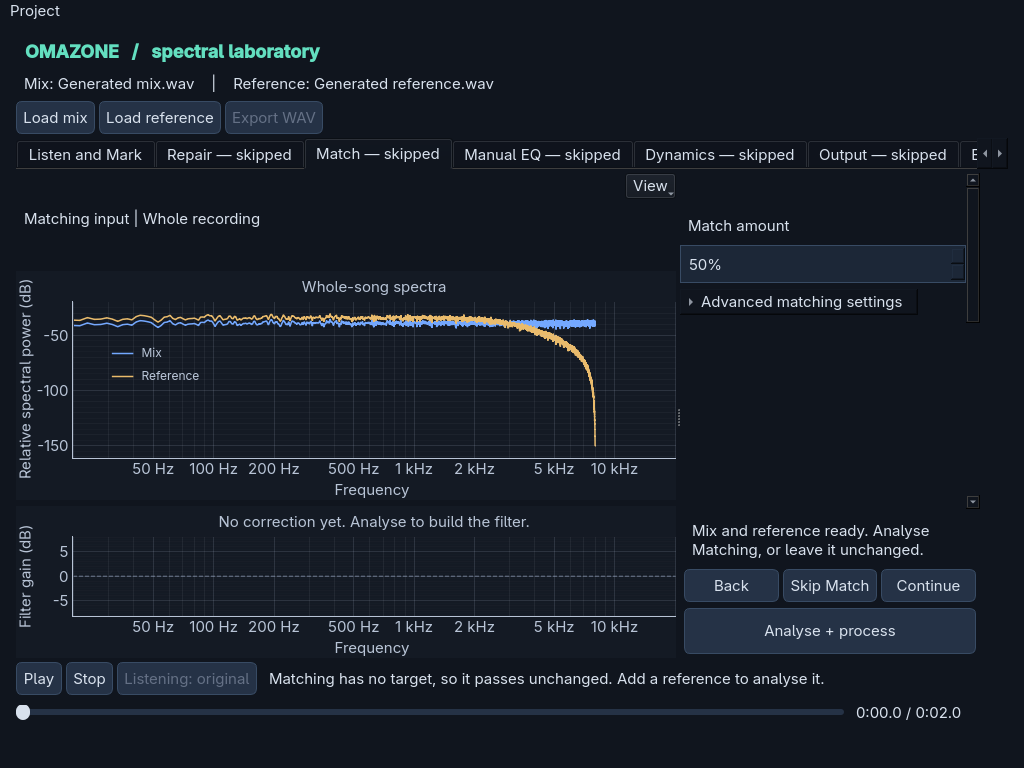
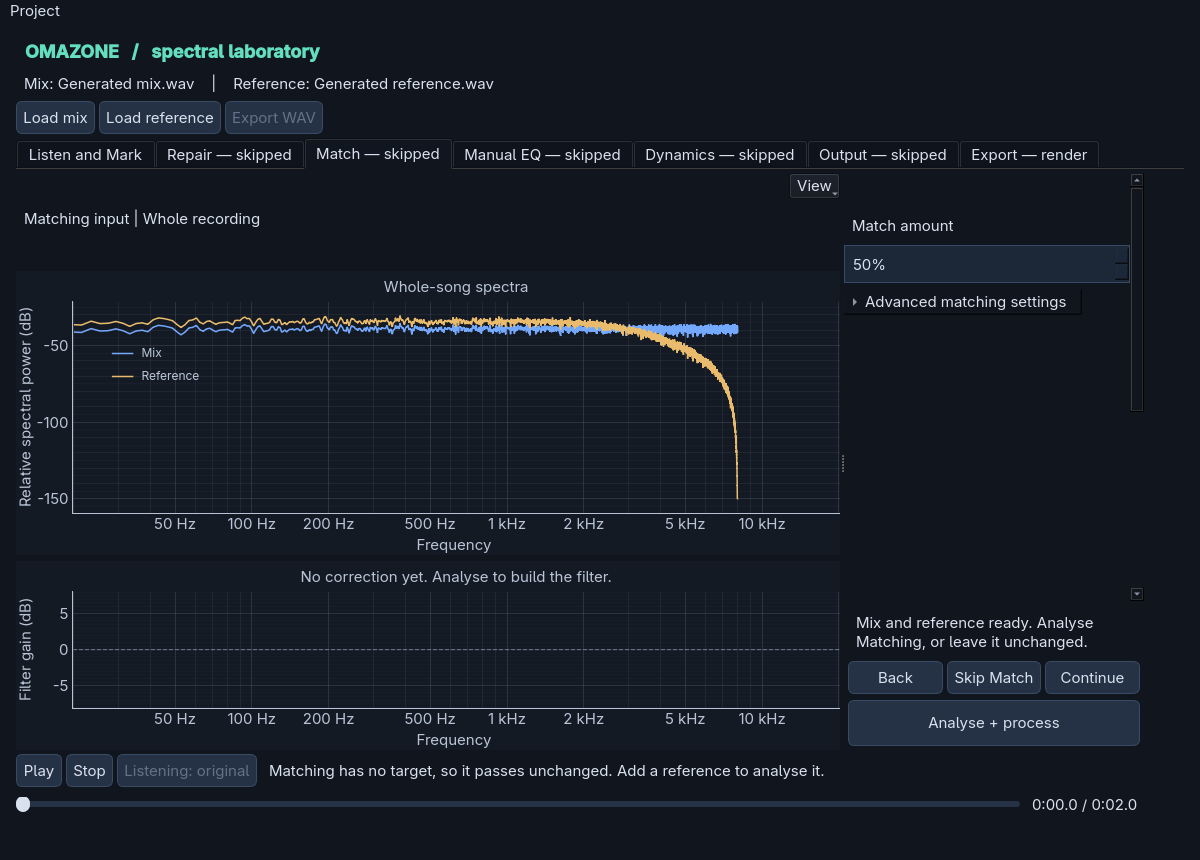
Capture Matching at a width the step bar can actually show
The published Matching screenshot was taken at 1024x768, where seven
status-labelled steps need about 1084px. Export was cut off behind scroll
arrows, so the image showed a window the app cannot present at that size.
Capturing at 1200x860 shows every step.

Add a test pinning the width the seven steps need, so a longer title or a
bigger font is caught there rather than in the next screenshot.

diff --git a/tests/test_workflow_steps.py b/tests/test_workflow_steps.py
@@ -4,10 +4,12 @@ import os
 
 os.environ.setdefault("QT_QPA_PLATFORM", "offscreen")
 
+import numpy as np
 import pytest
+import soundfile as sf
 from PySide6 import QtWidgets
 
-from omazone.gui import Window
+from omazone.gui import Window, load_audio
 from omazone.tool_panel import ToolPanel
 from omazone.workflow_steps import (
     BY_KEY,
@@ -23,6 +25,10 @@ from omazone.workflow_steps import (
     resolve_step_key,
     step_for,
 )
+
+# Measured for seven steps carrying status labels. A window narrower than
+# this scrolls the bar and hides Export.
+STEP_BAR_BUDGET = 1100
 
 
 def test_step_names_are_unique_and_lookups_are_strict():
@@ -196,3 +202,36 @@ def test_a_saved_selection_written_as_a_comparison_name_still_lands_on_that_step
     assert clamp("output-gain") == "output"
     assert clamp("mastering") == "match"
     assert clamp("eq") == "eq"
+
+
+def test_the_step_bar_budget_covers_every_status_labelled_step(tmp_path):
+    """Status suffixes roughly double the bar, so all seven steps need real width.
+
+    Below the budget the bar scrolls and Export disappears, which is where
+    delivery happens. Nothing else notices, so pin it here rather than leaving
+    it to be discovered in a screenshot.
+    """
+    app = QtWidgets.QApplication.instance() or QtWidgets.QApplication([])
+    window = Window()
+    rate = 16000
+    audio = np.random.default_rng(313).normal(0, 0.2, (rate, 2))
+    source = tmp_path / "mix.wav"
+    sf.write(source, audio, rate, subtype="DOUBLE")
+    try:
+        window.show()
+        window.loaded("source", load_audio(source))
+        for _ in range(4):
+            app.processEvents()
+        bar = window.views.navigation
+        visible = [index for index in range(bar.count()) if bar.isTabVisible(index)]
+        assert len(visible) == len(NAVIGATION)
+        # tabSizeHint is the natural width; tabRect is what a full bar allows.
+        needed = sum(bar.tabSizeHint(index).width() for index in visible)
+        assert needed <= STEP_BAR_BUDGET, (
+            f"the seven steps grew to {needed}px; shorten a title or raise "
+            f"STEP_BAR_BUDGET, and check the window still works on a 1366px screen"
+        )
+    finally:
+        window.project.mark_saved()
+        window.close()
+        app.processEvents()

diff --git a/tools/render_matching_ready_demo.py b/tools/render_matching_ready_demo.py
@@ -28,7 +28,8 @@ def main():
     audio = np.random.default_rng(96).normal(0, 0.12, (rate * 2, 2))
     reference = signal.sosfilt(signal.butter(2, 2500, fs=rate, output="sos"), audio, axis=0)
     try:
-        window.resize(1024, 768)
+        # Seven status-labelled steps need about 1090px; 1024 crops Export.
+        window.resize(1200, 860)
         window.show()
         window.loaded("source", (audio, rate, analyse(audio, rate), "Generated mix.wav"))
         window.loaded(
@@ -64,7 +65,7 @@ def main():
         wait()
         if not window.grab().save(str(directory / "omazone-matching-plots.png")):
             raise RuntimeError("Could not save processed screenshot.")
-        print("Captured plot-focused Matching at 1024x768 and 1280x900.")
+        print("Captured plot-focused Matching at 1200x860 and 1280x900.")
     finally:
         # The demos never save, so skip the prompt that would block a headless run.
         window.project.mark_saved()
